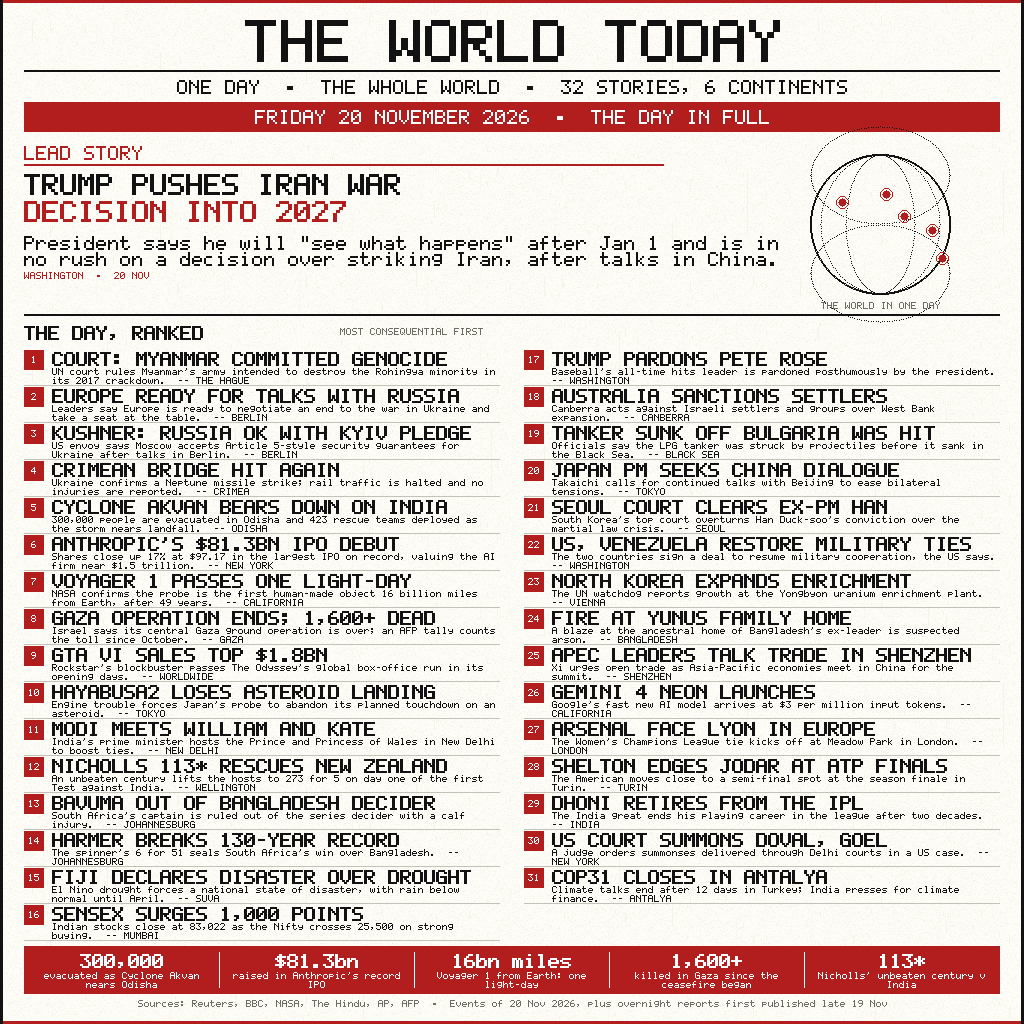
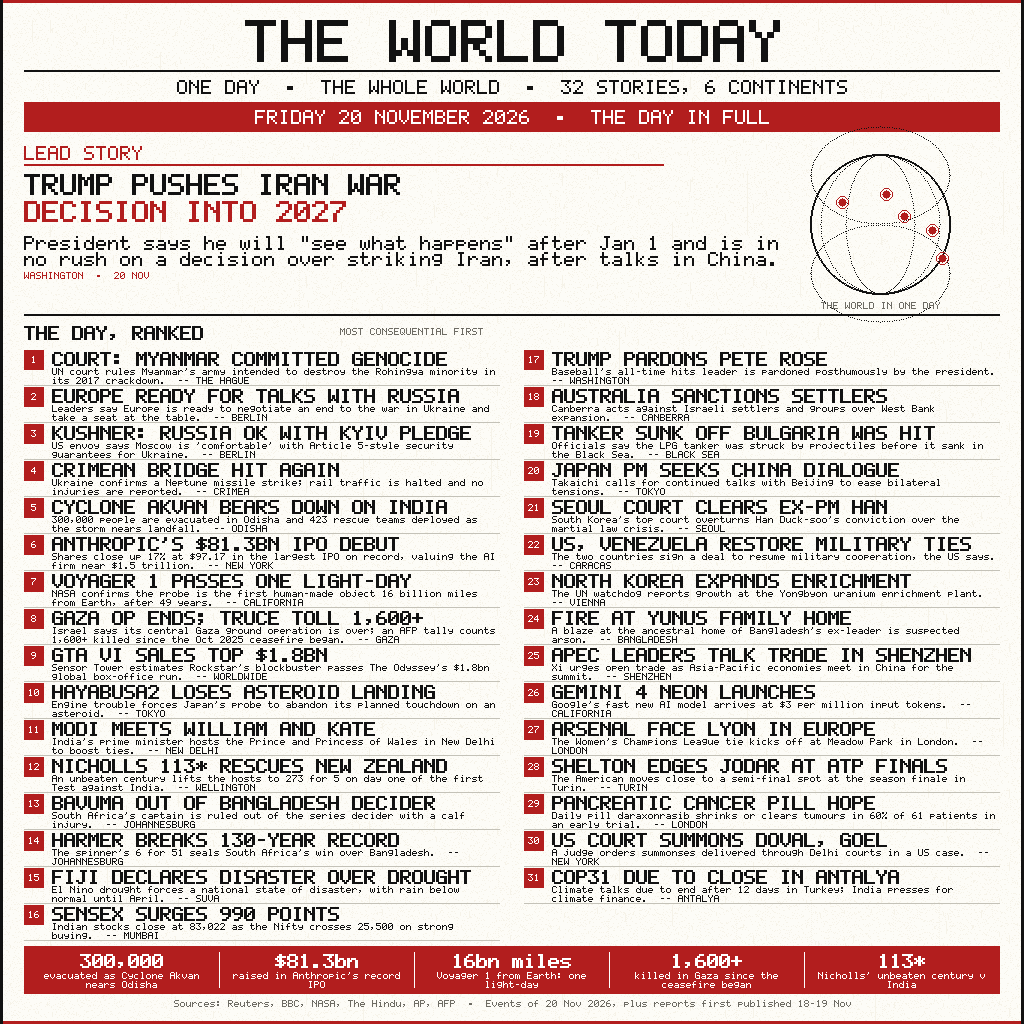
Fix critic-1 findings: COP31 due-to-close, daraxonrasib replaces Dhoni, Kushner/GTA/Gaza hedges, CARACAS dateline, Sensex 990, footer 18-19 Nov

diff --git a/main.py b/main.py
@@ -276,7 +276,7 @@ STORIES = [
      "Leaders say Europe is ready to negotiate an end to the war in Ukraine and take a seat at the table.",
      "BERLIN"),
     ("KUSHNER: RUSSIA OK WITH KYIV PLEDGE",
-     "US envoy says Moscow accepts Article 5-style security guarantees for Ukraine after talks in Berlin.",
+     "US envoy says Moscow is 'comfortable' with Article 5-style security guarantees for Ukraine.",
      "BERLIN"),
     ("CRIMEAN BRIDGE HIT AGAIN",
      "Ukraine confirms a Neptune missile strike; rail traffic is halted and no injuries are reported.",
@@ -290,11 +290,11 @@ STORIES = [
     ("VOYAGER 1 PASSES ONE LIGHT-DAY",
      "NASA confirms the probe is the first human-made object 16 billion miles from Earth, after 49 years.",
      "CALIFORNIA"),
-    ("GAZA OPERATION ENDS; 1,600+ DEAD",
-     "Israel says its central Gaza ground operation is over; an AFP tally counts the toll since October.",
+    ("GAZA OP ENDS; TRUCE TOLL 1,600+",
+     "Israel says its central Gaza ground operation is over; an AFP tally counts 1,600+ killed since the Oct 2025 ceasefire began.",
      "GAZA"),
     ("GTA VI SALES TOP $1.8BN",
-     "Rockstar's blockbuster passes The Odyssey's global box-office run in its opening days.",
+     "Sensor Tower estimates Rockstar's blockbuster passes The Odyssey's $1.8bn global box-office run.",
      "WORLDWIDE"),
     ("HAYABUSA2 LOSES ASTEROID LANDING",
      "Engine trouble forces Japan's probe to abandon its planned touchdown on an asteroid.",
@@ -314,7 +314,7 @@ STORIES = [
     ("FIJI DECLARES DISASTER OVER DROUGHT",
      "El Nino drought forces a national state of disaster, with rain below normal until April.",
      "SUVA"),
-    ("SENSEX SURGES 1,000 POINTS",
+    ("SENSEX SURGES 990 POINTS",
      "Indian stocks close at 83,022 as the Nifty crosses 25,500 on strong buying.",
      "MUMBAI"),
     ("TRUMP PARDONS PETE ROSE",
@@ -334,7 +334,7 @@ STORIES = [
      "SEOUL"),
     ("US, VENEZUELA RESTORE MILITARY TIES",
      "The two countries sign a deal to resume military cooperation, the US says.",
-     "WASHINGTON"),
+     "CARACAS"),
     ("NORTH KOREA EXPANDS ENRICHMENT",
      "The UN watchdog reports growth at the Yongbyon uranium enrichment plant.",
      "VIENNA"),
@@ -353,14 +353,14 @@ STORIES = [
     ("SHELTON EDGES JODAR AT ATP FINALS",
      "The American moves close to a semi-final spot at the season finale in Turin.",
      "TURIN"),
-    ("DHONI RETIRES FROM THE IPL",
-     "The India great ends his playing career in the league after two decades.",
-     "INDIA"),
+    ("PANCREATIC CANCER PILL HOPE",
+     "Daily pill daraxonrasib shrinks or clears tumours in 60% of 61 patients in an early trial.",
+     "LONDON"),
     ("US COURT SUMMONS DOVAL, GOEL",
      "A judge orders summonses delivered through Delhi courts in a US case.",
      "NEW YORK"),
-    ("COP31 CLOSES IN ANTALYA",
-     "Climate talks end after 12 days in Turkey; India presses for climate finance.",
+    ("COP31 DUE TO CLOSE IN ANTALYA",
+     "Climate talks due to end after 12 days in Turkey; India presses for climate finance.",
      "ANTALYA"),
 ]
 
@@ -502,7 +502,7 @@ def render():
 
     # ---- footer
     cv.text_center(
-        "Sources: Reuters, BBC, NASA, The Hindu, AP, AFP  •  Events of 20 Nov 2026, plus overnight reports first published late 19 Nov",
+        "Sources: Reuters, BBC, NASA, The Hindu, AP, AFP  •  Events of 20 Nov 2026, plus reports first published 18-19 Nov",
         W // 2, 1000, 1, GREY)
     return cv
 

diff --git a/HEARTBEAT-FIX.md b/HEARTBEAT-FIX.md
@@ -1,0 +1,10 @@
+# HEARTBEAT-FIX — news-image-20261120 Variant 1 "THE WORLD TODAY"
+
+- Session: 0abe9dc9-a89c-4fb0-9e98-dc1235e342cc
+- Status: DONE — all critic-1 fixes applied (F1, F2, F3, F4, F5, F6, F8, F9); F7 accepted as-is, no redesign
+- Scope: ONLY ~/workspace/makefun-news-image-20261120/the-world-today-20261120/ — Variant 2 untouched, nothing submitted, nothing uploaded
+- Old render sha256: a362d8324d1a596b7a0acea7799c4dd48373a759d1c2f61f795f666deed0e030 (174,946 bytes)
+- New render sha256: 4aa68d6580cb8fe33e96557e5ce5b7e831db8eb40c3b8cac09ef3d25b300b5db (175,224 bytes)
+- Determinism: two fresh runs byte-identical (yes)
+- Replacement story (#29): daraxonrasib pancreatic-cancer pill trial — BBC, first published 20 Nov 2026 00:08 GMT; ENA Barcelona presentation 20 Nov 2026
+- Footer: "Sources: Reuters, BBC, NASA, The Hindu, AP, AFP  •  Events of 20 Nov 2026, plus reports first published 18-19 Nov" (hyphen, not en-dash — font has no U+2013)

diff --git a/README.md b/README.md
@@ -12,7 +12,7 @@ a wireframe globe, and a **BY THE NUMBERS** strip.
 
 All 32 stories were checked against live news reports on 20 November
 2026 (Reuters, BBC, NASA, The Hindu, AP, AFP). Events of the day, plus
-overnight reports first published late 19 Nov, are included — the
+reports first published 18-19 Nov, are included — the
 footer says so. Nothing is invented.
 
 ## Run it
@@ -26,7 +26,7 @@ Pure Python 3.13 standard library — no network, no fonts, no image
 libraries. The 5x7 bitmap font and the PNG encoder are written in
 `main.py` itself. Two runs produce byte-identical output.
 
-Output: PNG, 1024x1024, 174,946 bytes (limit 1 MiB).
+Output: PNG, 1024x1024, 175,224 bytes (limit 1 MiB).
 
 ## License
 
